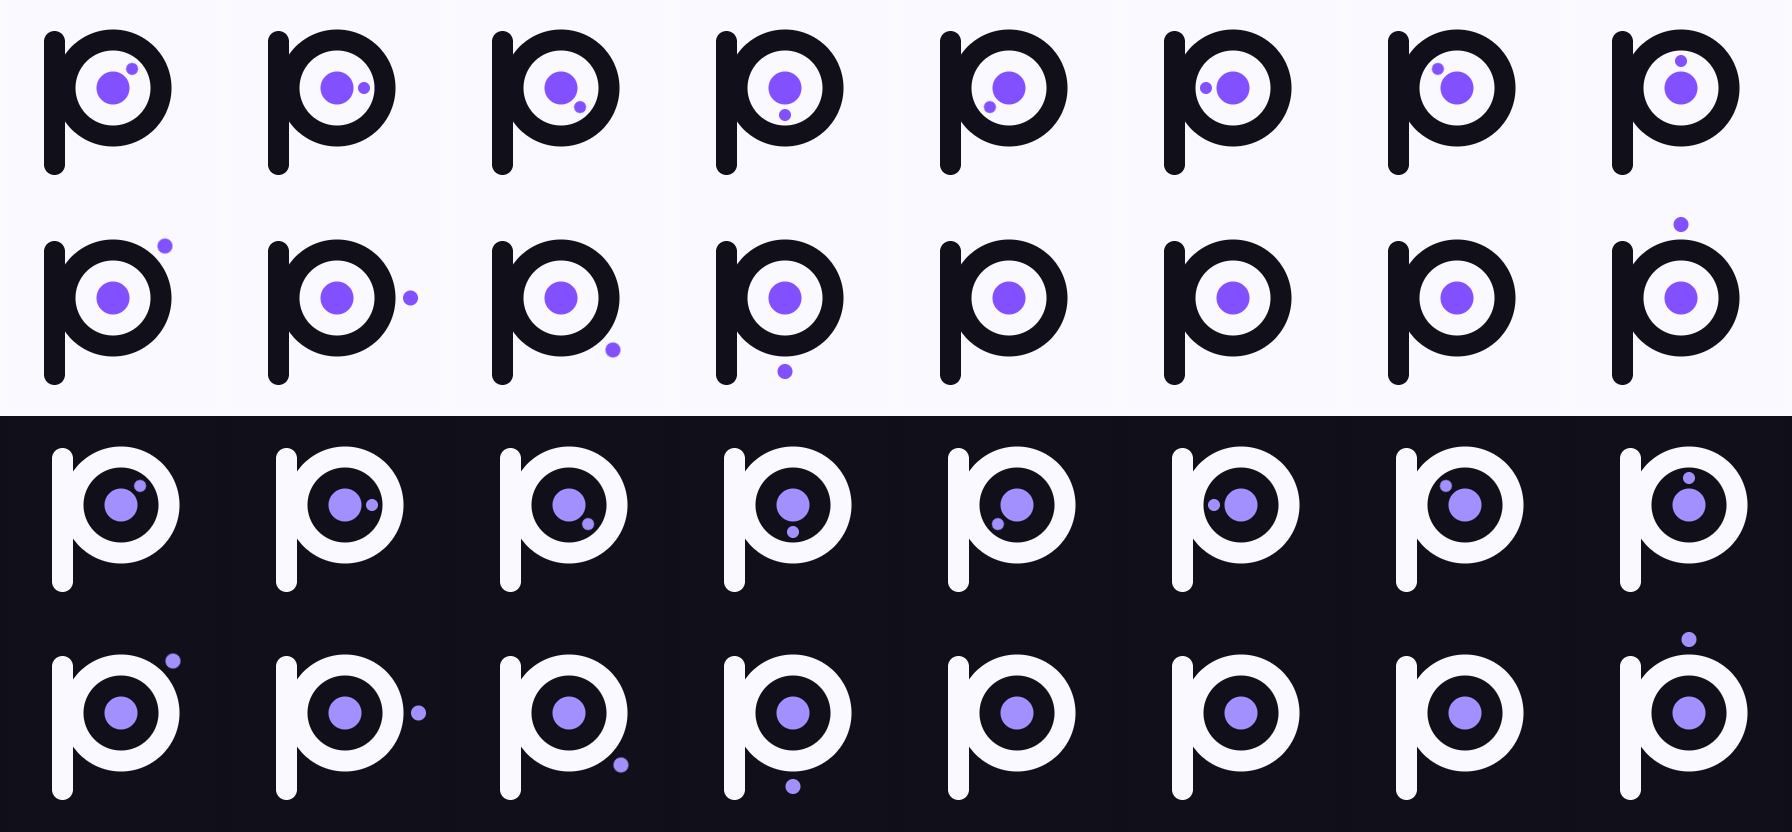
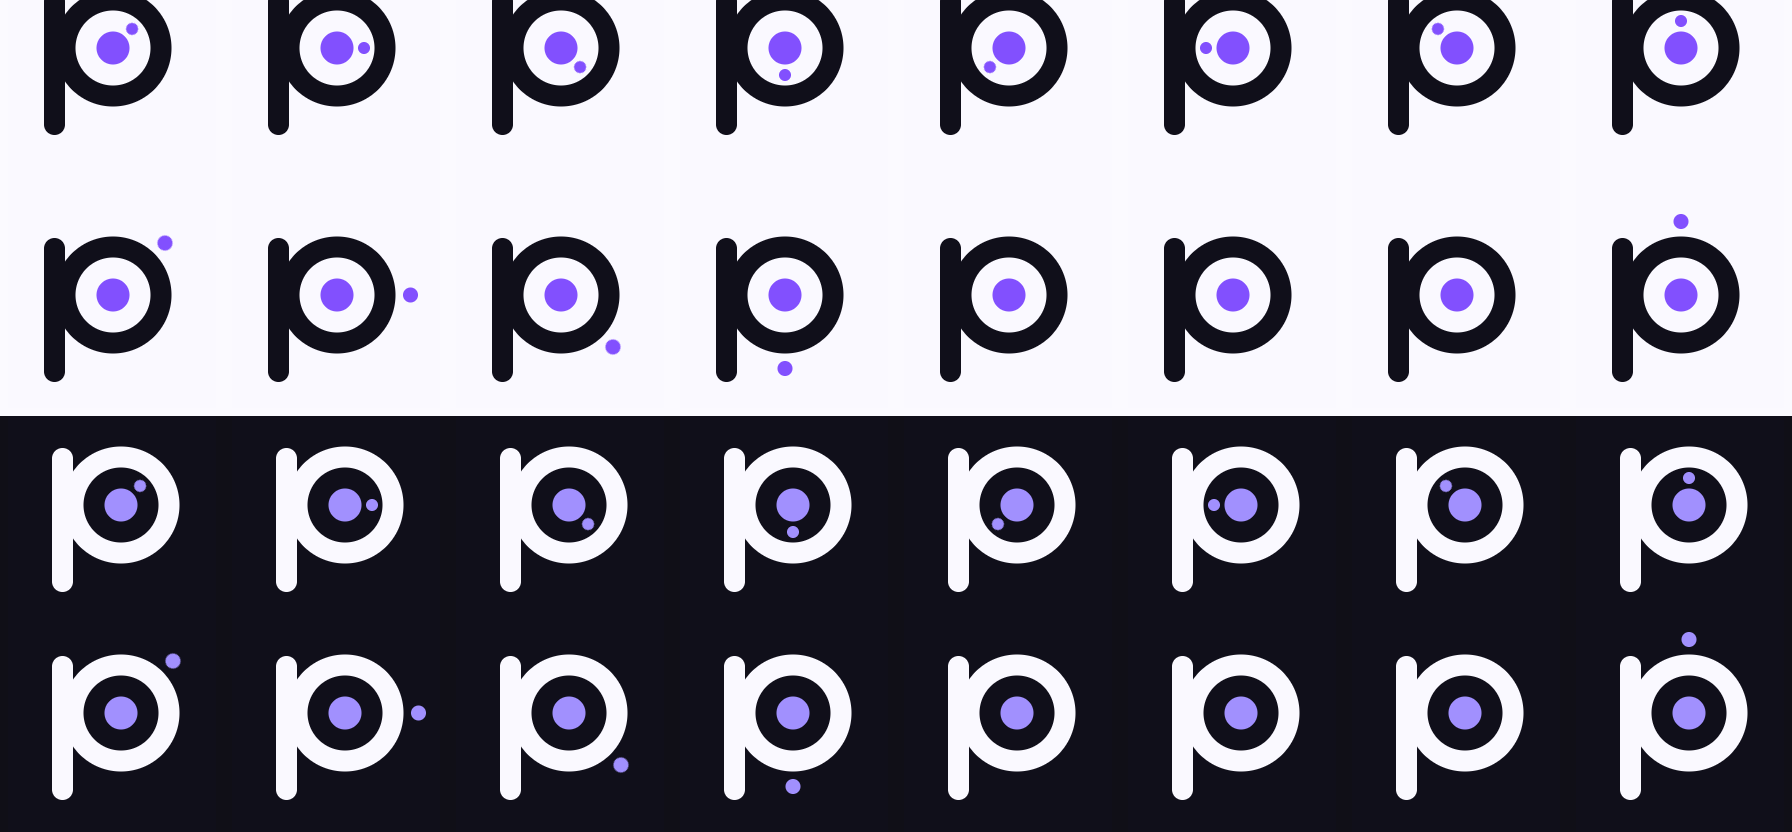
feat(ui): ProtokitMark's electron is always there, inside by default, and pauses in place
The electron is now part of the mark: drawn at rest, parked at half past one (45° above 3 o'clock), with no fade.
Hovering or keyboard focus runs the turn; leaving pauses it where it is, and the next hover carries on from there,
so it never resets. `orbit` defaults to `inside`; `outside` stays; `false` is the plain P for static uses (favicon,
avatar, print). Reduced motion keeps it parked; still not drawn under 32px.

diff --git a/packages/ui/src/components/ProtokitMark/ProtokitMark.test.tsx b/packages/ui/src/components/ProtokitMark/ProtokitMark.test.tsx
@@ -6,12 +6,12 @@ import { ProtokitMark } from './ProtokitMark';
 const css = readFileSync(join(__dirname, '../../styles/protokit-mark.css'), 'utf8');
 
 describe('ProtokitMark', () => {
-  it('is an image named "Protokit", at the nav size, drawn as the Proton P with no electron', () => {
+  it('is an image named "Protokit", at the nav size, drawn as the Proton P with the electron inside by default', () => {
     const { container } = render(<ProtokitMark />);
     const mark = screen.getByRole('img', { name: 'Protokit' });
     expect(mark).toHaveClass('c-proto-protokit-mark');
     expect(mark).toHaveAttribute('data-size', 'lg');
-    expect(mark).not.toHaveAttribute('data-orbit');
+    expect(mark).toHaveAttribute('data-orbit', 'inside');
     const svg = container.querySelector('.c-proto-protokit-mark__drawing')!;
     expect(svg).toHaveAttribute('viewBox', '0 0 64 64');
     expect(svg).toHaveAttribute('aria-hidden', 'true');
@@ -21,7 +21,14 @@ describe('ProtokitMark', () => {
     expect(ring).toHaveAttribute('r', '16');
     expect(ring).toHaveAttribute('stroke-width', '7');
     expect(svg.querySelector('.c-proto-protokit-mark__nucleus')).toHaveAttribute('r', '5.5');
+    expect(container.querySelector('.c-proto-protokit-mark__electron')).toHaveAttribute('cx', '44');
+  });
+
+  it('with orbit={false}, is the plain P: no electron layer and no data-orbit', () => {
+    const { container } = render(<ProtokitMark orbit={false} />);
+    expect(screen.getByRole('img', { name: 'Protokit' })).not.toHaveAttribute('data-orbit');
     expect(container.querySelector('.c-proto-protokit-mark__orbit')).toBeNull();
+    expect(container.querySelector('.c-proto-protokit-mark__drawing')).not.toBeNull();
   });
 
   it('takes another accessible name with label, and passes className and other props to the root', () => {
@@ -80,16 +87,13 @@ describe('ProtokitMark', () => {
     );
   });
 
-  it('orbits only on hover or keyboard focus of its link or button, paused and hidden at rest, never for reduced motion', () => {
-    // At rest: invisible, parked at 45° above 3 o'clock, the loop paused.
+  it('parks the electron at half past one, shown and paused, and turns it only on hover or keyboard focus, never for reduced motion', () => {
+    // At rest: drawn, parked at 45° above 3 o'clock, the loop paused; no fade, so the electron is part of the mark.
     expect(css).toMatch(
-      /\.c-proto-protokit-mark__orbit \{[^}]*opacity: 0;[^}]*transform-origin: 54\.6875% 42\.1875%;[^}]*rotate: -45deg;[^}]*animation: proto-protokit-mark-orbit var\(--proto-protokit-mark-orbit-duration, 6s\) linear infinite paused;/,
+      /\.c-proto-protokit-mark__orbit \{[^}]*transform-origin: 54\.6875% 42\.1875%;[^}]*rotate: -45deg;[^}]*animation: proto-protokit-mark-orbit var\(--proto-protokit-mark-orbit-duration, 6s\) linear infinite paused;/,
     );
-    // Fades with motion tokens, in on hover and focus whatever the motion preference.
-    expect(css).toMatch(/transition: opacity var\(--proto-duration-base\) var\(--proto-ease-exit\);/);
-    expect(css).toMatch(
-      /:is\(a, button\):is\(:hover, :focus-visible\) \.c-proto-protokit-mark__orbit \{\s*opacity: 1;\s*transition: opacity var\(--proto-duration-slow\) var\(--proto-ease-enter\);/,
-    );
+    expect(css).not.toMatch(/opacity: 0;\s*\/\* The nucleus/);
+    expect(css).not.toMatch(/\.c-proto-protokit-mark__orbit \{[^}]*opacity/);
     // The turn runs only with no motion preference.
     expect(css).toMatch(
       /@media \(prefers-reduced-motion: no-preference\) \{\s*:is\(a, button\):is\(:hover, :focus-visible\)\s*:is\(\.c-proto-protokit-mark__orbit, \.c-proto-protokit-mark__orbit > svg\) \{\s*animation-play-state: running;/,

diff --git a/packages/ui/src/components/ProtokitMark/ProtokitMark.stories.tsx b/packages/ui/src/components/ProtokitMark/ProtokitMark.stories.tsx
@@ -12,13 +12,13 @@ const meta = {
   args: { size: 'xl' },
   argTypes: {
     size: { control: 'radio', options: ['xs', 'sm', 'md', 'lg', 'xl', 'em'] },
-    orbit: { control: 'radio', options: [undefined, 'inside', 'outside'] },
+    orbit: { control: 'radio', options: ['inside', 'outside', false] },
   },
   parameters: {
     docs: {
       description: {
         component:
-          'Protokit\'s mark, "Proton" (brand direction 1, not yet adopted): a monogram P whose bowl is a ring around an accent nucleus. Stem and ring take `currentColor` (`--proto-color-text-default` by default), the nucleus `--proto-color-accent-default`; `CanvasText` in forced colours. Under 24px the ring is a unit heavier. `orbit` adds an electron that circles the nucleus while the surrounding link or button is hovered or focused. For a size outside the Icon scale, set `--proto-protokit-mark-size`.',
+          'Protokit\'s mark, "Proton" (brand direction 1, not yet adopted): a monogram P whose bowl is a ring around an accent nucleus. Stem and ring take `currentColor` (`--proto-color-text-default` by default), the nucleus `--proto-color-accent-default`; `CanvasText` in forced colours. Under 24px the ring is a unit heavier. An electron, parked at half past one, circles the nucleus while the surrounding link or button is hovered or focused: `orbit` is `inside` by default, `outside` around the ring, or `false` for the plain P. Not drawn under 32px. For a size outside the Icon scale, set `--proto-protokit-mark-size`.',
       },
     },
   },
@@ -38,7 +38,7 @@ export const Playground: Story = {
       <ProtokitMark {...args} />
     </a>
   ),
-  args: { orbit: 'inside', style: px(48) },
+  args: { style: px(48) },
 };
 
 /** The brand's proof sizes (96, 32, 16) and the Icon steps in between. */
@@ -101,9 +101,9 @@ export const Orbit: Story = {
   render: () => (
     <Stack gap="md">
       <Text size="sm" tone="muted">
-        Hover or Tab to a mark: the electron fades in where it last stopped and circles the nucleus once every
-        6s; leaving stops it and fades it out, so the resting mark is the plain P. Under reduced motion it
-        fades in parked at 45° and does not move. Not drawn under 32px.
+        The electron rests at half past one. Hover or Tab to a mark and it circles the nucleus once every 6s;
+        leaving stops it where it is, and the next hover carries on from there. Under reduced motion it stays
+        parked. Not drawn under 32px.
       </Text>
       <Orbits />
     </Stack>
@@ -133,7 +133,7 @@ export const AlwaysOn: Story = {
 
   render: () => (
     <Stack gap="md">
-      <style>{`.story-always .c-proto-protokit-mark__orbit { opacity: 1; animation-play-state: running; }`}</style>
+      <style>{`.story-always :is(.c-proto-protokit-mark__orbit, .c-proto-protokit-mark__orbit > svg) { animation-play-state: running; }`}</style>
       <Text size="sm" tone="muted">
         For comparison only: the same orbit, running without hover. Not an option of the component (WCAG
         2.2.2).

diff --git a/packages/ui/src/styles/protokit-mark.css b/packages/ui/src/styles/protokit-mark.css
@@ -58,21 +58,18 @@
   }
 }
 
-/* orbit: an electron circles the nucleus while the link or button around the mark is hovered or keyboard-focused.
-   It is its own layer (a span over the whole box, turning about the nucleus at 35/64, 27/64), so the motion is a
-   composited rotate and opacity: no layout, and the P is never repainted. The turn loops paused at rest, parked at
-   45° above 3 o'clock; hovering fades the electron in and runs the turn, leaving pauses it where it is and fades it
-   out, so the resting mark is the plain P and nothing snaps back. Under reduced motion the fade still happens and the
-   turn never runs: a parked electron. Under 32px the electron is not drawn at all. One turn takes 6s, or
-   `--proto-protokit-mark-orbit-duration`. */
+/* orbit: an electron sits in the mark, parked at 45° above 3 o'clock (half past one), and circles the nucleus while
+   the link or button around the mark is hovered or keyboard-focused. It is its own layer (a span over the whole box,
+   turning about the nucleus at 35/64, 27/64), so the motion is a composited rotate: no layout, and the P is never
+   repainted. The turn loops paused at rest; hovering runs it and leaving pauses it where it is, so nothing snaps
+   back and the next hover carries on from there. Under reduced motion the turn never runs: a parked electron. Under
+   32px the electron is not drawn at all. One turn takes 6s, or `--proto-protokit-mark-orbit-duration`. */
 .c-proto-protokit-mark__orbit {
   position: absolute;
   inset: 0;
-  opacity: 0;
   /* The nucleus, (35, 27) of 64. */
   transform-origin: 54.6875% 42.1875%;
   rotate: -45deg;
-  transition: opacity var(--proto-duration-base) var(--proto-ease-exit);
   animation: proto-protokit-mark-orbit var(--proto-protokit-mark-orbit-duration, 6s) linear infinite paused;
 }
 .c-proto-protokit-mark__orbit > svg {
@@ -90,10 +87,6 @@
   animation-duration: var(--proto-protokit-mark-orbit-duration, 6s);
   animation-timing-function: linear;
   animation-iteration-count: infinite;
-}
-:is(a, button):is(:hover, :focus-visible) .c-proto-protokit-mark__orbit {
-  opacity: 1;
-  transition: opacity var(--proto-duration-slow) var(--proto-ease-enter);
 }
 @media (prefers-reduced-motion: no-preference) {
   :is(a, button):is(:hover, :focus-visible)

diff --git a/packages/ui/src/components/ProtokitMark/ProtokitMark.tsx b/packages/ui/src/components/ProtokitMark/ProtokitMark.tsx
@@ -17,14 +17,13 @@ export interface ProtokitMarkProps extends Omit<ComponentPropsWithRef<'span'>, '
   /** The accessible name (`role="img"`). Default "Protokit". */
   label?: string | undefined;
   /**
-   * An electron orbits the nucleus while the link or button around the mark is hovered or keyboard-focused: it fades
-   * in where it last stopped, circles clockwise once every 6s (`--proto-protokit-mark-orbit-duration`), and on
-   * leaving stops and fades out, so the resting mark is always the plain P. `inside` circles in the bowl's counter,
+   * The electron, `inside` by default, or `false` for the plain P (a favicon, an avatar, print). It is parked at half past one (45° above 3 o'clock), that circles the nucleus clockwise once every 6s
+   * (`--proto-protokit-mark-orbit-duration`) while the link or button around the mark is hovered or keyboard-focused.
+   * Leaving stops it where it is, and the next hover carries on from there. `inside` circles in the bowl's counter,
    * between the nucleus and the ring; `outside` circles just outside the ring and passes behind the stem. Under
-   * `prefers-reduced-motion` the electron fades in parked at 45° and does not move. Not under 32px. Decorative; it
-   * changes nothing that is read.
+   * `prefers-reduced-motion` it stays parked. Not drawn under 32px. Decorative; it changes nothing that is read.
    */
-  orbit?: ProtokitMarkOrbit | undefined;
+  orbit?: ProtokitMarkOrbit | false | undefined;
 }
 
 /**
@@ -46,7 +45,7 @@ const ELECTRON = {
 export function ProtokitMark({
   size = 'lg',
   label = 'Protokit',
-  orbit,
+  orbit = 'inside',
   className,
   ...rest
 }: ProtokitMarkProps) {
@@ -54,7 +53,7 @@ export function ProtokitMark({
     <span
       className={cx('c-proto-protokit-mark', className)}
       data-size={size}
-      data-orbit={orbit}
+      data-orbit={orbit || undefined}
       role="img"
       aria-label={label}
       {...rest}
